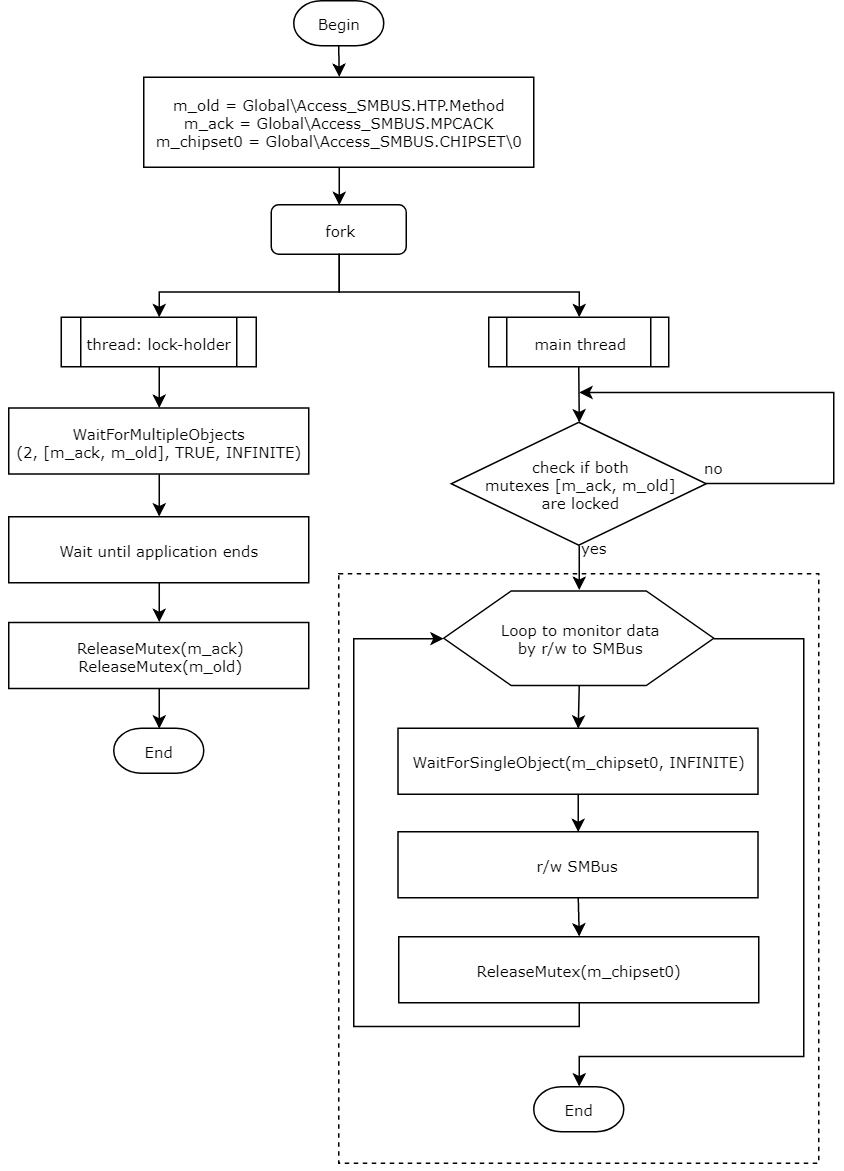
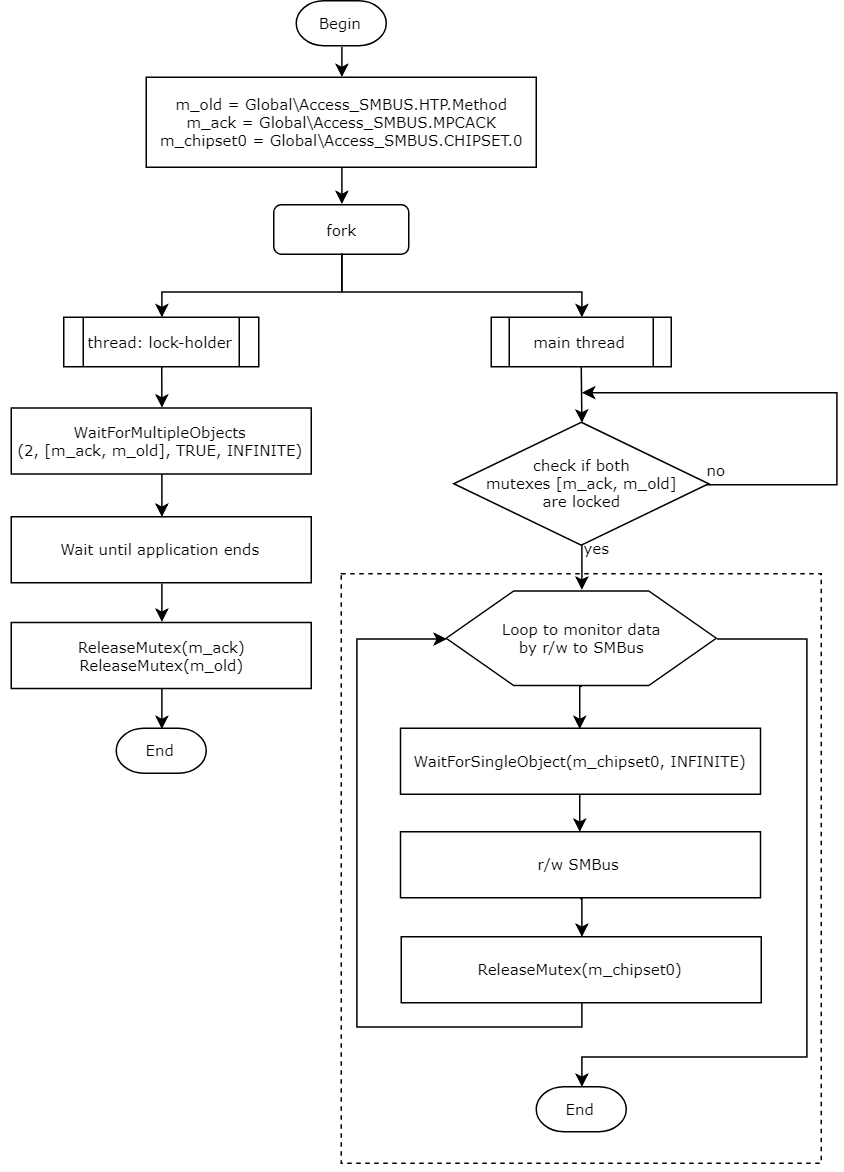
replaced backslash with dot in mutex names

diff --git a/smbus-whitepaper.md b/smbus-whitepaper.md
@@ -31,17 +31,17 @@ Having one mutex for all SMBus controllers with simultaneous work of several app
 Instead of using single mutex to access all SMBus controllers it is proposed to use separate mutexes for each SMBus controller ([per-controller mutexes list](#percontrollermutexeslist) below).  
 
 ### <a name='percontrollermutexeslist'></a>Per-controller mutexes list
-1. **Global\Access_SMBUS.CHIPSET\X**
+1. **Global\Access_SMBUS.CHIPSET.X**
 
     *Used to access X<sup>th</sup> SMBus controller on motherboard chipset.*  
-    *X is a zero-based controller index (Global\Access_SMBUS.CHIPSET\0, Global\Access_SMBUS.CHIPSET\1, etc.)*  
-    **Note**: the controller index X depends on the device address in memory. The smaller index corresponds to the lower address. Most systems will only use 0 chipset index, i.e. *Global\Access_SMBUS.CHIPSET\0*
+    *X is a zero-based controller index (Global\Access_SMBUS.CHIPSET.0, Global\Access_SMBUS.CHIPSET.1, etc.)*  
+    **Note**: the controller index X depends on the device address in memory. The smaller index corresponds to the lower address. Most systems will only use 0 chipset index, i.e. *Global\Access_SMBUS.CHIPSET.0*
 
-2. **Global\Access_SMBUS.CPU_N\X**
+2. **Global\Access_SMBUS.CPU_N.X**
 
     *Used to access X<sup>th</sup> SMBus controller on N<sup>th</sup> CPU.*  
-    *X is a zero-based controller index, N is a zero-based CPU index(Global\Access_SMBUS.CPU_0\0, Global\Access_SMBUS.CPU_0\1, Global\Access_SMBUS.CPU_1\0, Global\Access_SMBUS.CPU_1\1, etc.)*  
-    **Note**: the controller index X and CPU index N depend on the device address in memory or index of PCI Bus. The smaller index corresponds to the lower memory address or PCI Bus index. Most systems will only use 0 CPU index, i.e. *Global\Access_SMBUS.CPU_0\0*, *Global\Access_SMBUS.CPU_0\1*
+    *X is a zero-based controller index, N is a zero-based CPU index(Global\Access_SMBUS.CPU_0.0, Global\Access_SMBUS.CPU_0.1, Global\Access_SMBUS.CPU_1.0, Global\Access_SMBUS.CPU_1.1, etc.)*  
+    **Note**: the controller index X and CPU index N depend on the device address in memory or index of PCI Bus. The smaller index corresponds to the lower memory address or PCI Bus index. Most systems will only use 0 CPU index, i.e. *Global\Access_SMBUS.CPU_0.0*, *Global\Access_SMBUS.CPU_0.1*
 
 ### <a name='auxmutexeslist'></a>Aux mutexes list (needed only for backward compatibility during migration process)
 Using just per-controller mutexes will break compatibility with current applications, and to make the migration to new mutexes smoother, while retaining the possibility of simultaneous operation of several different applications (new and current), two more mutexes are needed.  
@@ -85,17 +85,17 @@ At this step it is needed to lock acknowledgement mutex and release it only when
 
 ### <a name='aftermigration'></a>After migration (including backward compatibility)
 
-Using "*Global\Access_SMBUS.CHIPSET\0*" mutex:
+Using "*Global\Access_SMBUS.CHIPSET.0*" mutex:
 
 ![](./figures/f02.png)
 
-Using "*Global\Access_SMBUS.CPU_0\0*" and "*Global\Access_SMBUS.CPU_0\1*" mutexes:
+Using "*Global\Access_SMBUS.CPU_0.0*" and "*Global\Access_SMBUS.CPU_0.1*" mutexes:
 
 ![](./figures/f03.png)
 
 ### After migration (excluding backward compatibility)
 
-Using "*Global\Access_SMBUS.CPU_0\0*" and "*Global\Access_SMBUS.CPU_0\1*" mutexes:
+Using "*Global\Access_SMBUS.CPU_0.0*" and "*Global\Access_SMBUS.CPU_0.1*" mutexes:
 
 ![](./figures/f04.png)
 
